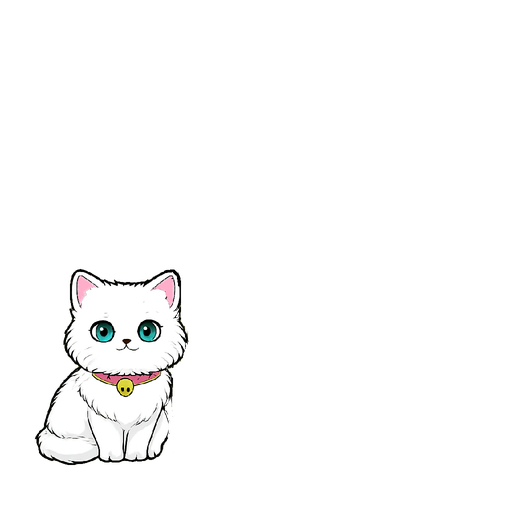
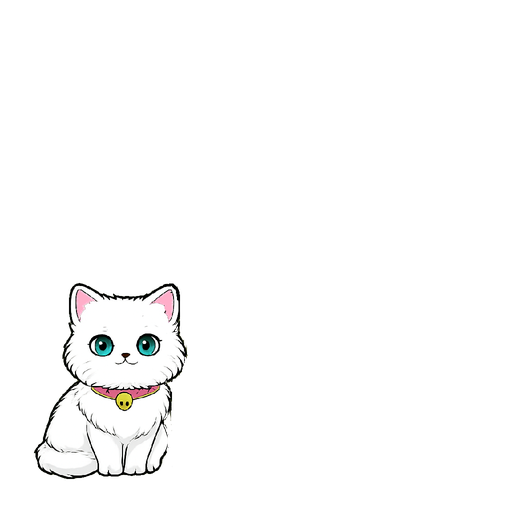
00

Changed region(s): [[0.0625, 0.5, 0.375, 0.9375]]

diff --git a/index.html b/index.html
@@ -70,6 +70,7 @@
 
 
 
+
 <html lang="ko">
 <head>
 <meta charset="utf-8"/>
@@ -1639,14 +1640,7 @@
       z-index:21;               
       }
     .tile .tileVine svg{width:100%; height:100%; display:block;}
-    .tile .tileVine .lf{                       
-      transform-box:fill-box; transform-origin:0% 50%;
-      animation:mkVineSway 5.4s ease-in-out infinite;
-      
-      }
-    @keyframes mkVineSway{ 0%,100%{transform:rotate(-5deg)} 50%{transform:rotate(6deg)} }
-    @media (prefers-reduced-motion:reduce){ .tile .tileVine .lf{animation:none !important;} }
-    body.mkLowSpecMode .tile .tileVine .lf{animation:none !important;}   
+    
     
     .newbieTag{
       position:absolute; right:5px; top:5px; z-index:22; pointer-events:none; 
@@ -25108,7 +25102,7 @@ const WORLD_TREE_DEW_SPAWN_MIN_MS = 3 * 60 * 60 * 1000;
 
 const WORLD_TREE_DEW_FLASH_CHANCE = 0.01;
 
-const MK_APP_BUILD = 17108; 
+const MK_APP_BUILD = 17109; 
   
   try{ window.__MK_BUILD__ = MK_APP_BUILD; }catch(_e){}
 
@@ -30090,6 +30084,17 @@ html body #dashboardCard .petDashBox[data-dash-mode="tree"] > #petDashInner{
   }
   
   
+  .mkCharaPrice.mkSeasonLockBadge{
+    color:#d9d2e6; background:rgba(18,14,26,.82); border-color:rgba(190,175,220,.45);
+  }
+  .mkCharaThumb.mkSeasonLocked img{ filter:grayscale(.75) brightness(.58); opacity:.85; }
+  .mkCharaThumb.mkSeasonLocked:hover img{ filter:grayscale(.6) brightness(.66); }
+  .mkSeasonChip{
+    position:absolute; left:4px; bottom:4px; padding:2px 5px; border-radius:999px; pointer-events:none;
+    font-size:9px; font-weight:1000; max-width:calc(100% - 8px); overflow:hidden; text-overflow:ellipsis; white-space:nowrap;
+    color:#ffe3f1; background:rgba(40,10,28,.72); border:1px solid rgba(255,141,194,.45);
+  }
+  
   .mkCharaThumb.mkTryOn{ border-color:#ffd85c; }
   .mkCharaThumb.mkTryOn.on{ box-shadow:0 0 0 2px rgba(255,216,92,.28); }
   .mkCharaThumb.mkTryOn.on::after{ content:"👕"; background:#ffd85c; font-size:10px; }
@@ -30653,6 +30658,38 @@ var V169_PART_PRICE_DEFAULT = 2;
   
   function specialInfo(catKey, name){ return (chara.special || {})[catKey + '/' + name] || null; }
   function isSpecial(catKey, name){ return !!specialInfo(catKey, name); }
+  
+  var SEASON_ICON = '🌕'; 
+  function seasonalMapOf(mf){ var o = mf && mf._seasonal; return (o && typeof o === 'object' && !Array.isArray(o)) ? o : {}; }
+  function seasonWindowsOf(mf){ var o = mf && mf._seasonWindows; return (o && typeof o === 'object' && !Array.isArray(o)) ? o : {}; }
+  function isMMDD(v){ return typeof v === 'string' && /^\d{2}-\d{2}$/.test(v); }
+  function todayMMDD(){ var d = new Date(); return ('0'+(d.getMonth()+1)).slice(-2) + '-' + ('0'+d.getDate()).slice(-2); }
+  
+  function inSeasonWindow(from, to, today){
+    if(!isMMDD(from) || !isMMDD(to) || !isMMDD(today)) return false;
+    return (from <= to) ? (today >= from && today <= to) : (today >= from || today <= to);
+  }
+  
+  function seasonStateOf(name){
+    var id = (chara.seasonal || {})[name];
+    if(typeof id !== 'string' || !id) return null;
+    var w = (chara.seasonWindows || {})[id];
+    if(!w || typeof w !== 'object' || Array.isArray(w)) return null;
+    if(!isMMDD(w.from) || !isMMDD(w.to)) return null;
+    return { id:id, label:(typeof w.label === 'string' && w.label) ? w.label : id,
+             from:w.from, to:w.to, active:inSeasonWindow(w.from, w.to, todayMMDD()) };
+  }
+  function mmddText(v){ var m = /^(\d{2})-(\d{2})$/.exec(String(v||'')); return m ? (Number(m[1]) + '/' + Number(m[2])) : String(v||''); }
+  
+  function seasonLockedFor(catKey, name){
+    var s = seasonStateOf(name);
+    if(!s || s.active) return null;
+    if(getOwned()[ownedKeyFor(catKey, name)]) return null;
+    return s;
+  }
+  function seasonLockMsg(s){
+    return SEASON_ICON + ' ' + s.label + ' 한정 파츠예요 — 매년 ' + mmddText(s.from) + '~' + mmddText(s.to) + '에만 살 수 있어요';
+  }
   
   function gearBackMapOf(mf){
     var out = {}, arr = mf && mf._gearBack;
@@ -31281,7 +31318,15 @@ var cartUnchecked = {};
   }
   function payCart(){
     var items = tryOnItems().filter(function(it){ return !cartUnchecked[ownedKeyFor(it.catKey, it.name)]; });
-    if(!items.length) return;
+    
+    var sBlocked = [];
+    items = items.filter(function(it){
+      var lock = seasonLockedFor(it.catKey, it.name);
+      if(lock){ sBlocked.push(lock); return false; }
+      return true;
+    });
+    if(sBlocked.length) toast(seasonLockMsg(sBlocked[0]) + (sBlocked.length > 1 ? (' (외 ' + (sBlocked.length - 1) + '개)') : ''), 3600);
+    if(!items.length){ if(sBlocked.length) renderCart(); return; }
     var total = items.reduce(function(s, it){ return s + it.price; }, 0);
     if(!spendCoins(total)){ refreshWalletPill(); toast('코인이 부족해요 — 타이머를 채우면 5초당 1코인!'); renderCart(); return; } 
     items.forEach(function(it){ grantOwned(it.catKey, it.name); });
@@ -31447,6 +31492,9 @@ function loadManifest(){
         chara.partTypes = partTypesMapOf(mf);
         chara.partSets  = partSetsMapOf(mf);
         chara.partSide  = partSideMapOf(mf);
+        
+        chara.seasonal = seasonalMapOf(mf);
+        chara.seasonWindows = seasonWindowsOf(mf);
         var cats=[];
         Object.keys(mf||{}).forEach(function(key){
           if(key.charAt(0)==='_') return;             
@@ -31615,11 +31663,18 @@ function renderTabs(){
       }
       var price = partPrice(cat.key, p.name);
 
-var title = esc(cat.label)+(has?' — 보유 중':(tryOn?' — 입어보는 중 (결제 전)':' — 코인 '+fmtCoins(price)+' · 눌러서 입어보기')); 
-      return '<div class="mkCharaThumb'+(isOn?' on':'')+(tryOn?' mkTryOn':(has?'':' mkLocked'))+'" data-name="'+esc(p.name)+'" title="'+title+'">'
+var season = has ? null : seasonStateOf(p.name);
+      var sLocked = !!(season && !season.active);
+      
+      var title = esc(cat.label)+(has?' — 보유 중':(sLocked ? (' — '+esc(season.label)+' 한정 · 매년 '+mmddText(season.from)+'~'+mmddText(season.to)+'에만 살 수 있어요')
+                                        :(tryOn?' — 입어보는 중 (결제 전)':(season?(' — '+esc(season.label)+' 한정 · 코인 '+fmtCoins(price)+' · 눌러서 입어보기'):' — 코인 '+fmtCoins(price)+' · 눌러서 입어보기')))); 
+      return '<div class="mkCharaThumb'+(isOn?' on':'')+(tryOn?' mkTryOn':(has?'':' mkLocked'))+(sLocked?' mkSeasonLocked':'')+'" data-name="'+esc(p.name)+'" title="'+title+'">'
         + thumbImgHtml(cat.key, p.name, p.url, '') 
         
-        + (has?'<span class="mkCharaPrice mkOwnedBadge">보유 ✓</span>':('<span class="mkCharaPrice">'+COIN+fmtCoins(price)+'</span>'))
+        + (has?'<span class="mkCharaPrice mkOwnedBadge">보유 ✓</span>'
+              :(sLocked?('<span class="mkCharaPrice mkSeasonLockBadge">'+SEASON_ICON+' '+esc(season.label)+' 한정</span>')
+                       :('<span class="mkCharaPrice">'+COIN+fmtCoins(price)+'</span>'
+                         + (season?('<span class="mkSeasonChip">'+SEASON_ICON+esc(season.label)+'</span>'):''))))
         + '</div>';
     }).join('');
     el.innerHTML = html;
@@ -31629,6 +31684,11 @@ var title = esc(cat.label)+(has?' — 보유 중':(tryOn?' — 입어보는 중 
         
         var isSp = !!(nm && tile.dataset.special === '1' && !getOwned()[ownedKeyFor(cat.key, nm)]);
         var onNow = function(){ return isMultiCat(cat.key) ? selArr(cat.key).indexOf(nm)>=0 : chara.sel[cat.key]===nm; }; 
+        
+        if(nm && !onNow()){
+          var sLock = seasonLockedFor(cat.key, nm);
+          if(sLock){ toast(seasonLockMsg(sLock), 3400); return; }
+        }
         var wasOn = isSp && onNow();
         selectPart(cat.key, nm); 
         if(isSp && !wasOn && onNow()) toast('🎖 미리보기예요 — 쿠폰 코드를 등록하면 내 것이 돼요', 2600);
